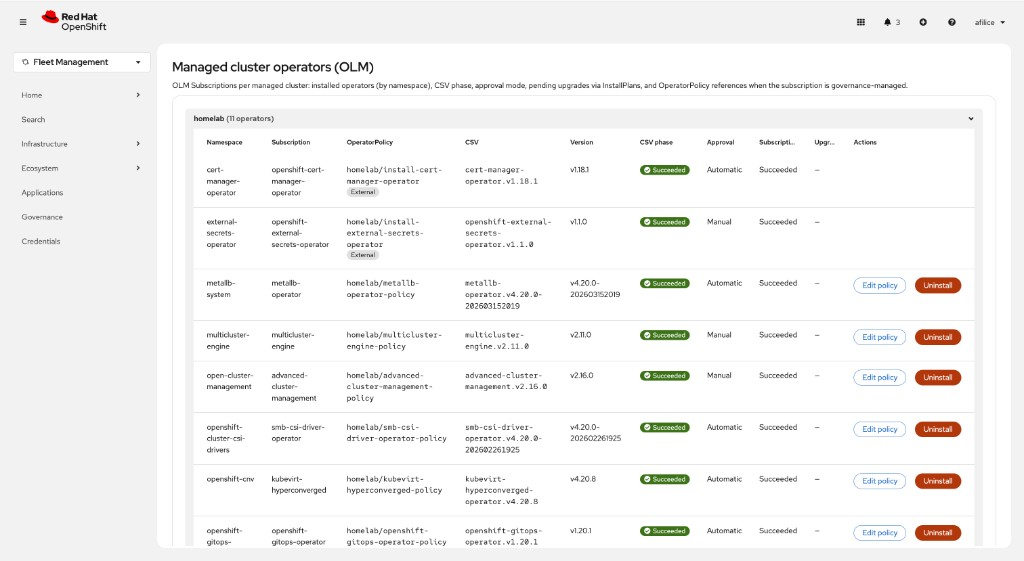
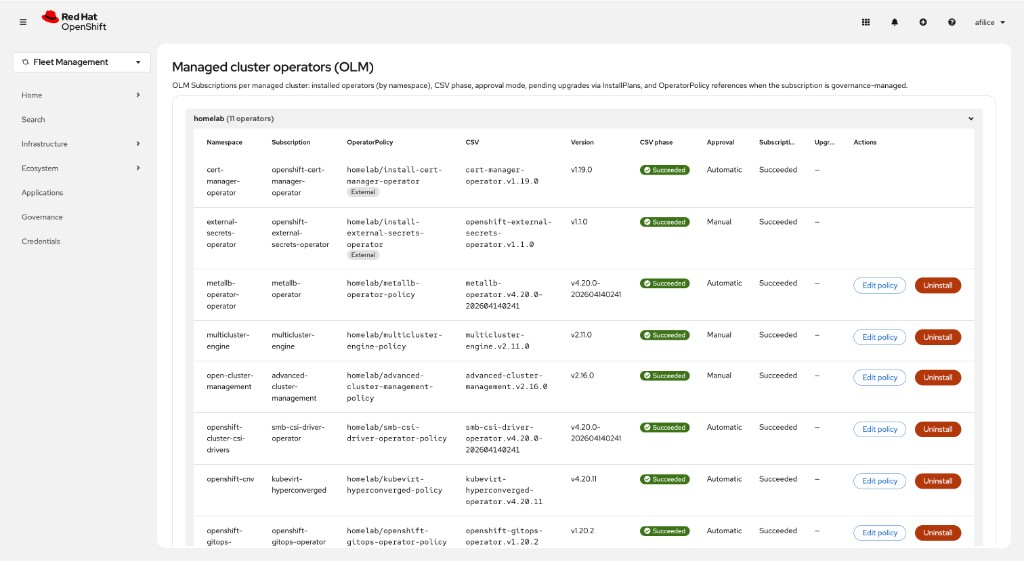
docs: refresh screenshots and prune roadmap
Update README screenshots to match current UI and keep the roadmap limited to not-yet-implemented ideas.

Made-with: Cursor

diff --git a/README.md b/README.md
@@ -27,7 +27,6 @@ Dashboard with **ChartDonut** cards (CSV phase, upgrades, governance, policy ref
 OLM subscriptions per cluster, CSV phase, OperatorPolicy reference (with **External** when not created from this plugin).
 
 ![Managed cluster operators: table with namespaces, subscriptions, OperatorPolicy, CSV](docs/images/installed-operators.png)
-<img width="1512" height="830" alt="image" src="https://github.com/user-attachments/assets/dc74c575-78de-4769-b25c-02697d9f3736" />
 
 
 ### Install operators
@@ -208,13 +207,8 @@ Planned and under consideration. Contributions and design discussion are welcome
 
 ### Other ideas
 
-- **Migration → Create policy** — From **Installed Operators**, after the enroll label is applied, **Create policy** opens **Install operators** with query params so the modal is **pre-filled** from the live **Subscription** (namespace, channel, catalog source, approval → policy upgrade mode, starting CSV, policy namespace). *Shipped in current plugin (deep link `mop_*` query params).*
-- **YAML tab on install / edit** — Besides the guided form, add a **read/write YAML** tab when installing or editing an **OperatorPolicy** (and related objects where applicable), for power users and copy-paste from docs. *Shipped in current plugin.*
-- **Generate-only YAML (GitOps-first)** — A flow that **only emits** ready-to-commit manifests (e.g. `OperatorPolicy`, namespaces, labels) for **Git** / **Argo CD** / **RHACM Policy** repos, without applying through the console—useful for teams that forbid direct cluster edits. *Shipped in current plugin.*
-- **Multi-cluster / scale loading** — Page load time grows with the number of **managed clusters** and **Subscriptions** because work is largely **sequential proxy calls** per cluster (subscriptions, CSVs, catalog sources, policy lookups). Next steps: **parallelize** safe requests where possible, **list or batch** data per cluster instead of many narrow GETs, **cache** results for the session (or short TTL), and **progressive UI** (show partial data while the rest loads) so large estates stay usable. *Shipped in current plugin (progressive loading + short TTL cache + policy list batching).*
-- **Overview drill-down** — Click-through from summary rows to **cluster-scoped** Installed Operators views. *Shipped in current plugin (per-cluster link).*
-- **InstallPlan manual approval** — When **install plan approval** is **Manual** and an **InstallPlan** tied to the subscription is waiting (`spec.approved: false`), show an **Approve** button on **Installed Operators** (and optional confirmation). Implement as **merge-patch** on `InstallPlan` (`spec.approved: true`) via the same **managed-cluster proxy** path, handle **RBAC** errors in-line, then **refresh** subscription / CSV data for that row. *Shipped in current plugin.*
 - **Bulk / multi-cluster patterns** — Select several **Ready** clusters and apply the same install template (behind confirmations and RBAC checks).
+- **Overview drill-down (charts + filters)** — Click-through from donut segments / summary lines to pre-filtered views (e.g. pending upgrades, external policies).
 - **Stronger testing and docs** — Expand **Cypress** coverage for Overview and policy flows; document **RBAC** matrices and proxy requirements for managed clusters.
 - **More locales** — Additional language packs beyond `en` once strings stabilize.
 
